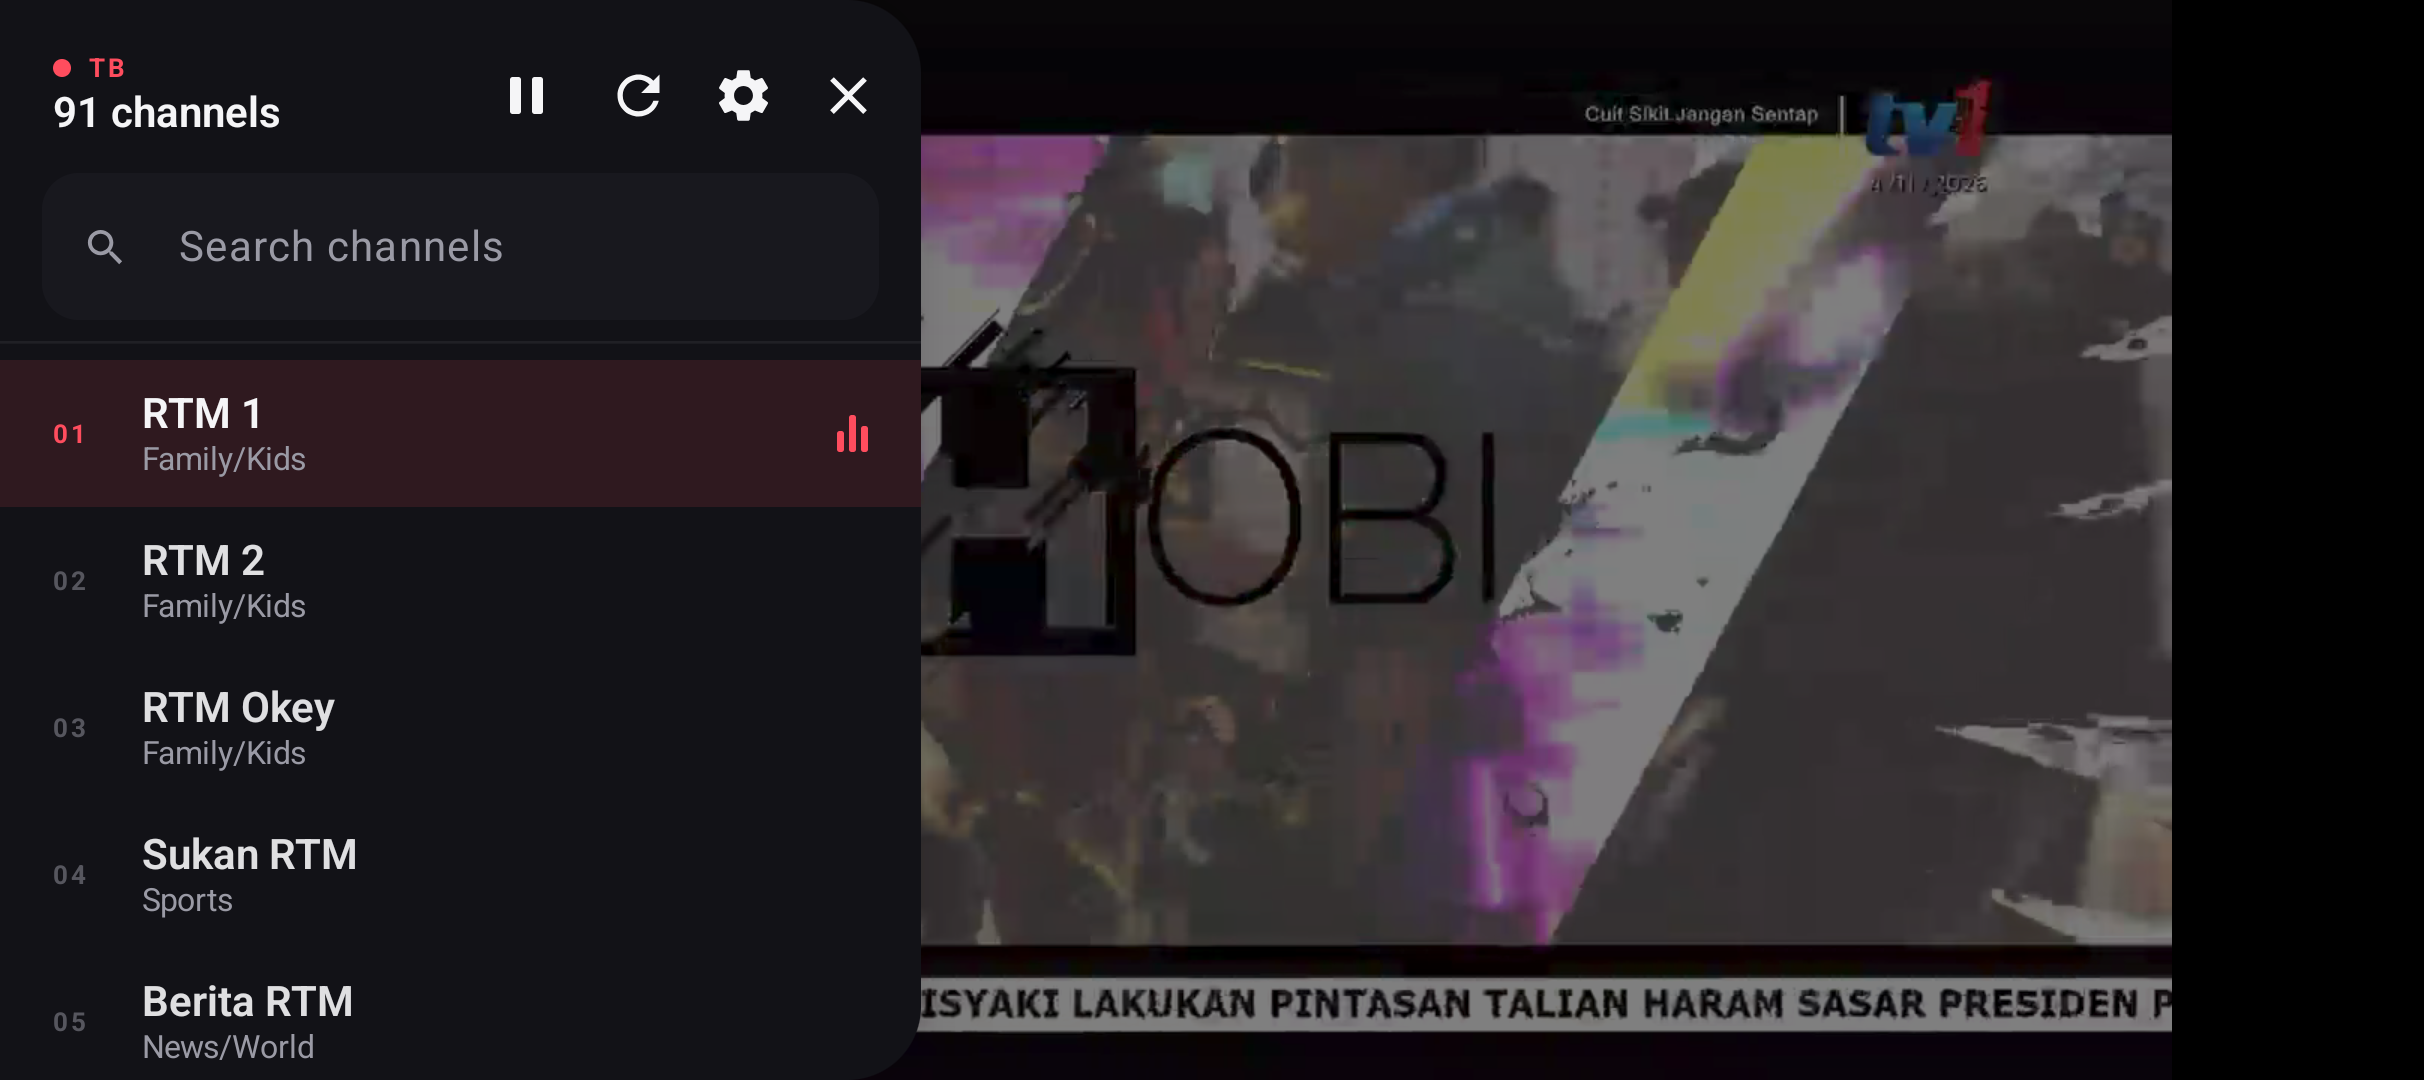
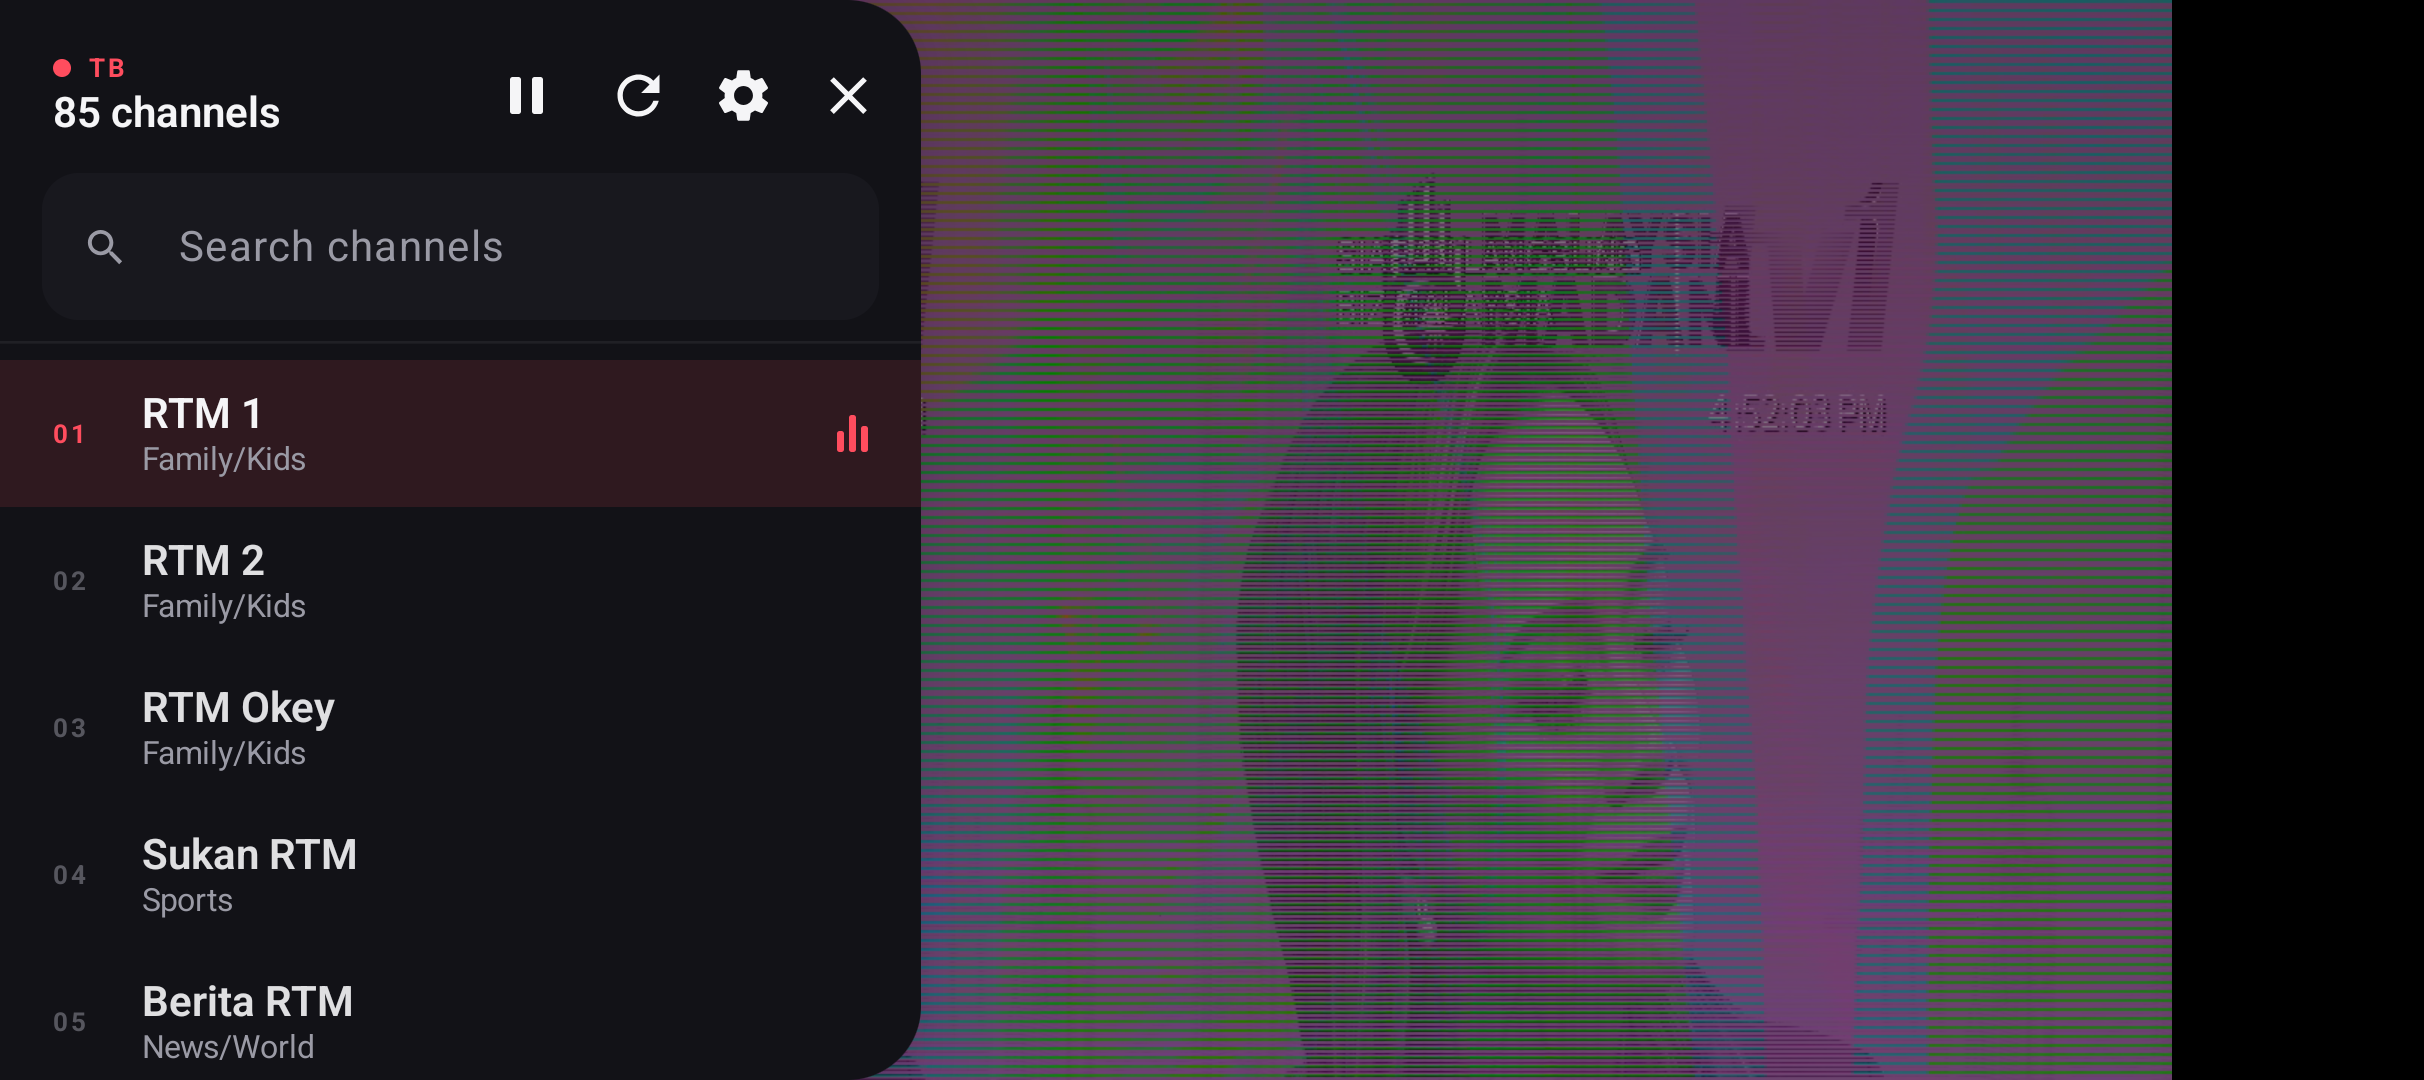
Skip duplicate bare URLs in playlists that use EXTINF

diff --git a/app/src/main/java/com/zeeykhm/tb/data/M3uParser.kt b/app/src/main/java/com/zeeykhm/tb/data/M3uParser.kt
@@ -26,6 +26,7 @@ object M3uParser {
 
     fun parse(text: String): List<Channel> {
         val channels = LinkedHashMap<String, Channel>()
+        val usesExtInf = text.contains("#EXTINF", ignoreCase = true)
 
         var attributes: Map<String, String> = emptyMap()
         var pendingName: String? = null
@@ -53,6 +54,12 @@ object M3uParser {
                 line.startsWith("#") -> Unit
 
                 else -> {
+                    // Kodi-style lists sometimes put extra/alternate URLs after
+                    // a channel (e.g. a second URL or a DASH manifest following
+                    // #KODIPROP). Those have no #EXTINF of their own, so skip
+                    // them instead of showing a duplicate hostname channel.
+                    if (usesExtInf && pendingName == null) continue
+
                     val name = pendingName?.ifBlank { null }
                         ?: attributes["tvg-name"]?.ifBlank { null }
                         ?: deriveName(line)

diff --git a/app/src/test/java/com/zeeykhm/tb/data/M3uParserTest.kt b/app/src/test/java/com/zeeykhm/tb/data/M3uParserTest.kt
@@ -133,6 +133,23 @@ class M3uParserTest {
     }
 
     @Test
+    fun `ignores extra urls that have no extinf of their own`() {
+        val playlist = """
+            #EXTM3U
+            #EXTINF:-1,Channel One
+            https://example.com/one.m3u8
+            #EXTINF:-1,Channel Two
+            https://example.com/two.m3u8
+            https://example.com/two-backup.m3u8
+            #KODIPROP:inputstream.adaptive.manifest_type=dash
+            https://example.com/two/manifest.mpd
+        """.trimIndent()
+
+        val channels = M3uParser.parse(playlist)
+        assertEquals(listOf("Channel One", "Channel Two"), channels.map { it.name })
+    }
+
+    @Test
     fun `keeps only the first occurrence of a duplicated url`() {
         val playlist = """
             #EXTINF:-1,First
